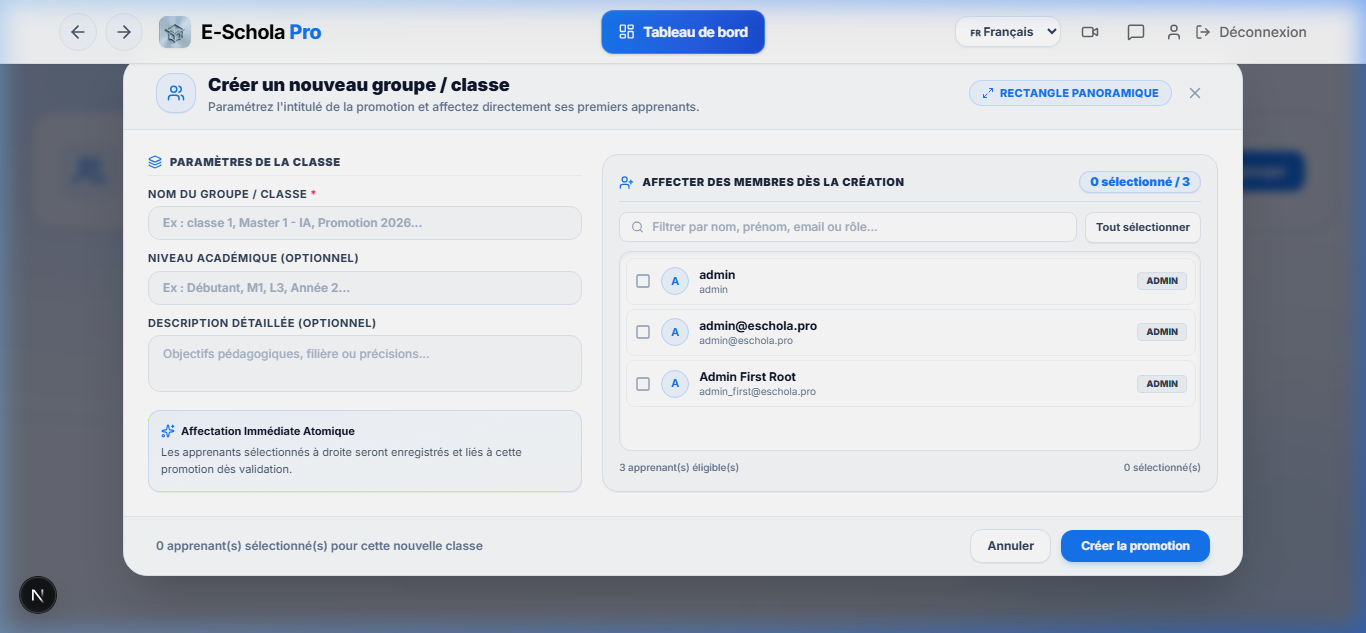
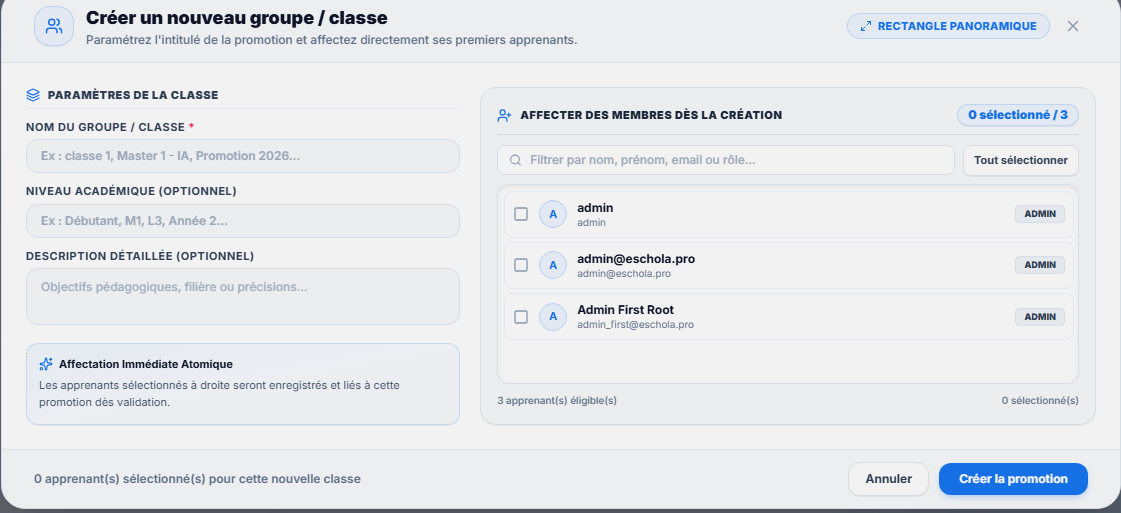
fix(ui): affichage garanti en rectangle panoramique et integration screenshot doc

diff --git a/frontend/src/app/[locale]/group/page.tsx b/frontend/src/app/[locale]/group/page.tsx
@@ -1048,11 +1048,11 @@ export default function GroupPage() {
         </div>
       )}
 
-      {/* 4. MODAL AJOUTER / MODIFIER UN GROUPE (FORMAT PANORAMIQUE HAUTE LISIBILITÉ) */}
+      {/* 4. MODAL AJOUTER / MODIFIER UN GROUPE (FORMAT RECTANGLE PANORAMIQUE HAUTE LISIBILITÉ) */}
       {showFormModal && (
         <div className="fixed inset-0 z-50 bg-slate-950/60 backdrop-blur-xs overflow-y-auto p-2 sm:p-4 md:p-6 flex justify-center items-start sm:items-center">
-          <div className={`bg-white w-full ${
-            editingGroupId ? 'max-w-2xl' : 'max-w-6xl xl:max-w-7xl 2xl:max-w-[1420px] w-[96vw]'
+          <div className={`bg-white w-[95vw] ${
+            editingGroupId ? 'max-w-3xl' : 'max-w-[1520px]'
           } rounded-3xl border border-slate-200 shadow-2xl animate-zoom-in text-slate-900 my-auto flex flex-col overflow-hidden max-h-[94vh]`}>
             
             {/* En-tête panoramique spacieux & élégant */}
@@ -1075,7 +1075,7 @@ export default function GroupPage() {
               <div className="flex items-center gap-2.5">
                 {!editingGroupId && (
                   <span className="hidden sm:inline-flex items-center gap-1.5 px-3 py-1 rounded-full bg-blue-50 text-[#1877f2] border border-blue-200/80 text-xs font-black uppercase tracking-wider">
-                    <Maximize2 size={13} /> Vue Panoramique
+                    <Maximize2 size={13} /> Rectangle Panoramique
                   </span>
                 )}
                 <button 
@@ -1090,7 +1090,7 @@ export default function GroupPage() {
 
             {/* Formulaire panoramique équilibré & hautement lisible */}
             <form onSubmit={handleSubmit} className="flex flex-col flex-1 min-h-0 overflow-hidden">
-              <div className="p-6 sm:p-8 space-y-5 overflow-y-auto flex-1">
+              <div className="p-5 sm:p-7 lg:p-8 space-y-5 overflow-y-auto flex-1">
                 
                 {formError && (
                   <div className="bg-red-50 border border-red-200 text-red-700 p-3.5 rounded-xl font-semibold text-xs sm:text-sm flex items-center gap-2 shrink-0">
@@ -1101,10 +1101,10 @@ export default function GroupPage() {
 
                 {!editingGroupId ? (
                   /* ─── DISPOSITION EN VÉRITABLE RECTANGLE PANORAMIQUE 2 COLONNES (PAYSAGE) ─── */
-                  <div className="grid grid-cols-1 lg:grid-cols-12 gap-6 xl:gap-8 items-stretch">
+                  <div className="grid grid-cols-1 md:grid-cols-12 gap-5 lg:gap-7 items-stretch">
                     
                     {/* Colonne Gauche : Paramètres de la promotion */}
-                    <div className="lg:col-span-5 flex flex-col justify-between space-y-4">
+                    <div className="md:col-span-5 flex flex-col justify-between space-y-4">
                       <div className="space-y-3.5">
                         <div className="flex items-center gap-2 text-slate-800 pb-2 border-b border-slate-200">
                           <Layers size={16} className="text-[#1877f2]" />
@@ -1186,7 +1186,7 @@ export default function GroupPage() {
                     </div>
 
                     {/* Colonne Droite : Affectation des apprenants */}
-                    <div className="lg:col-span-7 bg-slate-50/90 p-5 sm:p-6 rounded-2xl border border-slate-200 flex flex-col justify-between shadow-2xs">
+                    <div className="md:col-span-7 bg-slate-50/90 p-5 sm:p-6 rounded-2xl border border-slate-200 flex flex-col justify-between shadow-2xs">
                       <div className="space-y-3">
                         <div className="flex items-center justify-between gap-3 pb-2.5 border-b border-slate-200">
                           <div className="flex items-center gap-2">

diff --git a/Documentation_Technique_E-Schola_Pro.html b/Documentation_Technique_E-Schola_Pro.html
@@ -2457,11 +2457,9 @@ E-Schola Pro/
         <div class="screenshot-header">
           <div class="screenshot-header-left">
             <div class="screenshot-dots"><span class="dot-red"></span><span class="dot-yellow"></span><span class="dot-green"></span></div>
-            <div class="screenshot-address-bar"><span class="lock-icon">🔒</span> https://eschola.pro/fr/dashboard</div>
+            <div class="screenshot-address-bar"><span class="lock-icon">🔒</span> https://eschola.pro/fr/group</div>
           </div>
-          <span class="screenshot-title-text">E-Schola Pro</span>
-        </div>
-          <span>Aperçu de l'interface : Gestion des Groupes & Classes (/group)</span>
+          <span class="screenshot-title-text">Aperçu : Gestion des Groupes &amp; Classes (/group)</span>
         </div>
         <img src="docs_screenshots/groups.png" alt="Interface Groupes E-Schola Pro" class="screenshot-img" />
       </div>
@@ -2469,11 +2467,9 @@ E-Schola Pro/
         <div class="screenshot-header">
           <div class="screenshot-header-left">
             <div class="screenshot-dots"><span class="dot-red"></span><span class="dot-yellow"></span><span class="dot-green"></span></div>
-            <div class="screenshot-address-bar"><span class="lock-icon">🔒</span> https://eschola.pro/fr/dashboard</div>
+            <div class="screenshot-address-bar"><span class="lock-icon">🔒</span> https://eschola.pro/fr/group#new</div>
           </div>
-          <span class="screenshot-title-text">E-Schola Pro</span>
-        </div>
-          <span>Aperçu de l'interface : Modal de Création en Rectangle Panoramique (/group)</span>
+          <span class="screenshot-title-text">Aperçu : Modal de Création en Rectangle Panoramique (/group)</span>
         </div>
         <img src="docs_screenshots/group_modal_panoramic.png" alt="Modal de Création en Rectangle Panoramique" class="screenshot-img" />
       </div>
